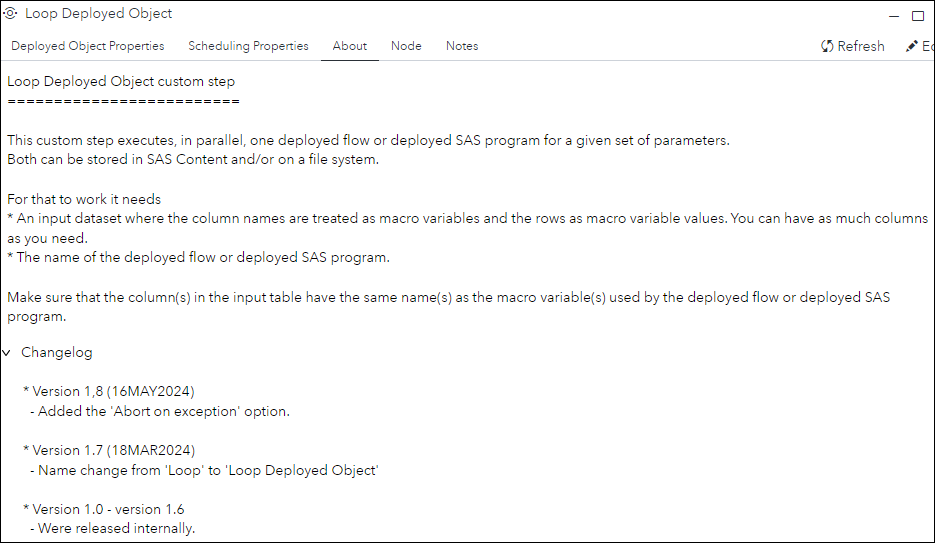
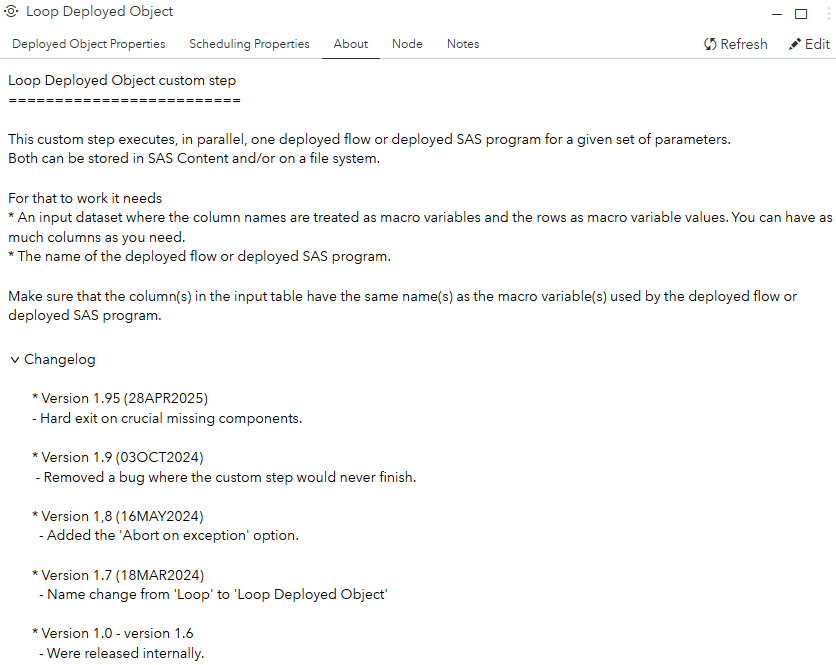
Hard exit in case of missing crucial components

Changed region(s): [[0.0, 0.0, 1.0, 1.0], [0.0, 0.5304, 0.9641, 1.0]]

diff --git a/Loop Deployed Object/README.md b/Loop Deployed Object/README.md
@@ -87,19 +87,23 @@ Note that:
 - Here you can download the log file for each instance of the **deployed** flow or you can use the [**Download Job Execution Log**](../Download%20Job%20Execution%20Log/README.md) custom step to download the log file from within the flow.
 
 ## Custom step messages
-| Step message                                                     | Reason    |
-|------------------------------------------------------------------|-----------|
-| ERROR: The items table in the response file does not exist. Aborting process.  | The HTTP response file, for the **/jobExecution/jobRequests** endpoint, doesn't contain the 'items' table. This prevents the custom step from retrieving the deployed flow URI.|
-| ERROR: The response file does not exist. Aborting process.  | The HTTP response file for the **../jobExecution/jobs**- and/or **../jobExecution/jobRequests** endpoint doesn't exist.  |
-| ERROR: Input table could not be opened.  | The custom step input table could not be opened for reading. |
-| ERROR: 0 of more then 1 job encountered with name &_jobname. Aborting process.  | The number of, based on the job defintion name, isn't 1. This could mean that the job definition name is not unique enough or there's no job for the given job defintion name.|
-|ERROR: job_uri table does not exist. Aborting process. | The work table, created in the **get_job_uri** macro, where the job uri should be stored is not available. |
-| ERROR: Not enough parameters to run the loop step. Aborting process. | The source table for this custom step is empty. |
-| ERROR: No URI provided. Aborting process. | The macro 'exec_job' didn't receive a value for the job_uri parameter. |
-| ERROR: Unable to update the status table. No response file encountered. | The macro 'update_status' didn't receive a response file. Might be caused by a Viya hick-up. This will not cause the custom step to abort... |
-| ERROR: The status table, &_output, does not exist. | The internal status table, which is exposed as the step output table, doesn't exist!. This will cause the step to abort. |
+| Step message                                                     | Reason    | Hard Exit? |
+|------------------------------------------------------------------|-----------|-----|
+| ERROR: The items table in the response file does not exist. Aborting process.  | The HTTP response file, for the **/jobExecution/jobRequests** endpoint, doesn't contain the 'items' table. This prevents the custom step from retrieving the deployed flow URI.| Yes |
+| ERROR: The response file does not exist. Aborting process.  | The HTTP response file for the **../jobExecution/jobs**- and/or **../jobExecution/jobRequests** endpoint doesn't exist. | Yes |
+| ERROR: Input table could not be opened.  | The custom step input table could not be opened for reading. | Yes |
+| ERROR: 0 of more then 1 job encountered with name &_jobname. Aborting process.  | The number of job definitions, based on the job defintion name, isn't 1. This could mean that the job definition name is not unique enough or there's no job for the given job defintion name.| Yes |
+|ERROR: job_uri table does not exist. Aborting process. | The work table, created in the **get_job_uri** macro, where the job uri should be stored is not available. | Yes |
+| ERROR: Not enough parameters to run the loop step. Aborting process. | The source table for this custom step is empty. | Yes |
+| ERROR: No URI provided. Aborting process. | The macro 'exec_job' didn't receive a value for the job_uri parameter. | Yes |
+| ERROR: Unable to update the status table. No response file encountered. | The macro 'update_status' didn't receive a response file. Might be caused by a Viya hick-up. This will not cause the custom step to abort... | No |
+| ERROR: The status table, &_output, does not exist. | The internal status table, which is exposed as the step output table, doesn't exist!. This will cause the step to abort. | Yes |
+| ERROR: &exception exception(s) encountered. Aborting process. | You have specified to abort in case one or more looped processes failed. | Yes |
+
 
 ## Change Log
+
+Version 1.95 (17JUN2025): Hard exit in case crucial components are missing.
 
 Version 1.9 (03OCT2024) : Removed a bug where the custom step would never finish.
 
